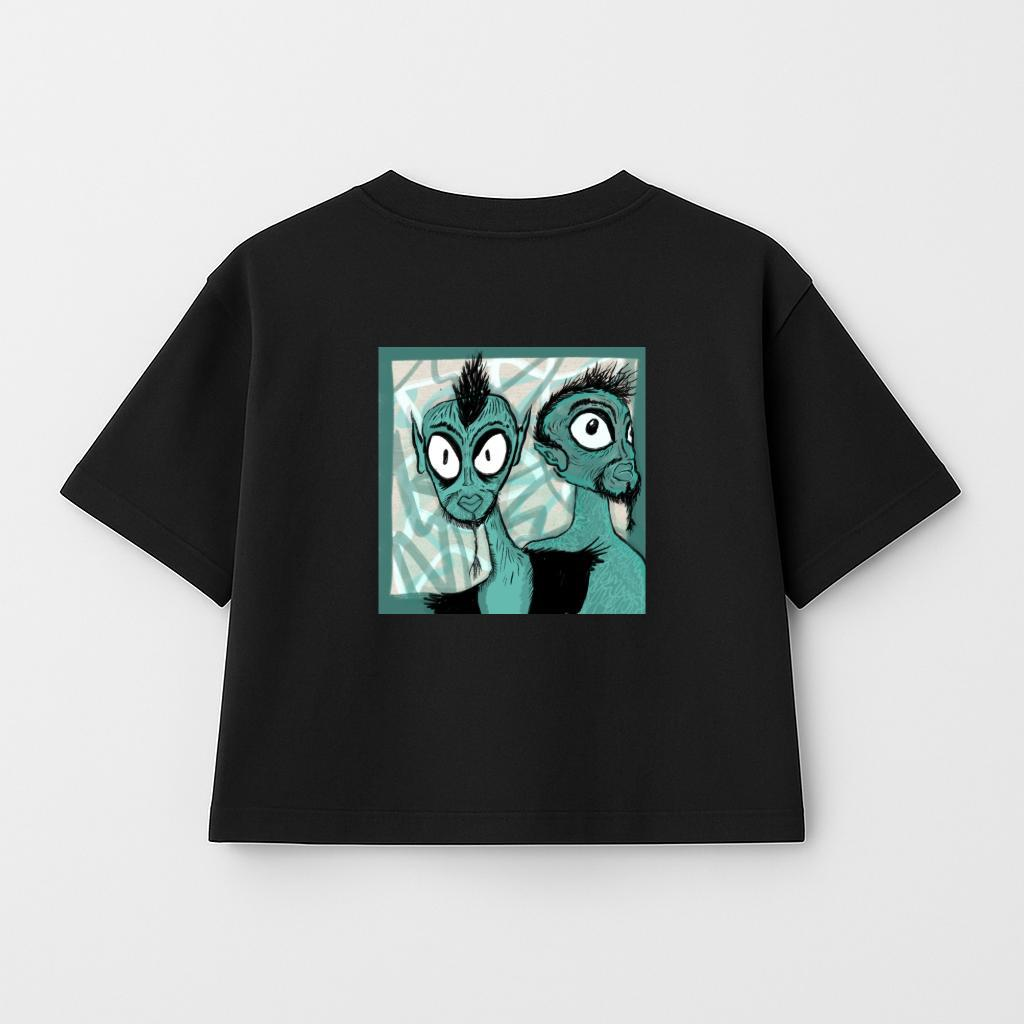
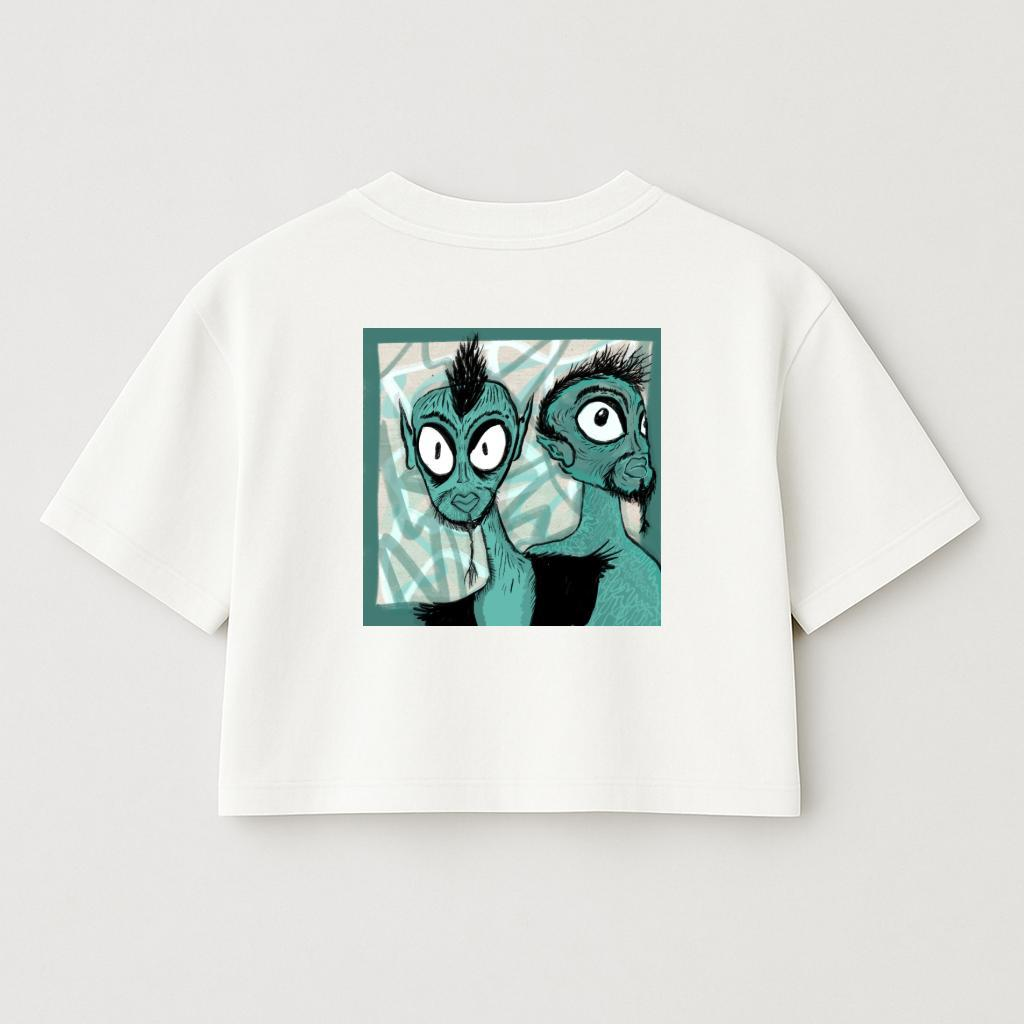
Client feedback: 5-of-15 selection clarity, Repaired for life as future offer, C05 white cropped render

diff --git a/index.html b/index.html
@@ -2147,7 +2147,7 @@ textarea:focus-visible,
 
     <div class="hero-body-row">
       <p class="body-l">
-        Fifteen artworks. <em>Two-fifty pieces.</em> Conor Powell, Peter Rapp and Michelle Fine open the catalogue. Designed and <em>made in London</em>, milled in Leicester.
+        Fifteen artworks. <em>Five will be made.</em> Two-fifty pieces by Conor Powell, Peter Rapp and Michelle Fine. Designed and <em>made in London</em>, milled in Leicester.
       </p>
       <p class="body-l">
         Not fast fashion. <em>Forward fashion</em> — independent, inclusive, made to last. The first programme opens July to August 2026. This page is the curatorial preview.
@@ -2164,7 +2164,7 @@ textarea:focus-visible,
 
     <div class="hero-spec">
       <div class="hero-spec-item"><span class="meta">Programme</span><span class="val">N°<em>01</em></span></div>
-      <div class="hero-spec-item"><span class="meta">Drop</span><span class="val">15 <em>works</em></span></div>
+      <div class="hero-spec-item"><span class="meta">Drop</span><span class="val">5 <em>of 15</em></span></div>
       <div class="hero-spec-item"><span class="meta">Edition</span><span class="val">250 pieces</span></div>
       <div class="hero-spec-item"><span class="meta">Located</span><span class="val"><em>Hackney</em> London</span></div>
       <div class="hero-spec-item"><span class="meta">Made in</span><span class="val">London</span></div>
@@ -2188,13 +2188,13 @@ textarea:focus-visible,
       <div class="section-divider-numhead">
         <span class="section-numeral">II.</span>
         <h2 class="h-section" style="max-width:14ch;">
-          Fifteen artworks.<br><em>Two-fifty pieces.</em>
+          Fifteen artworks.<br><em>Five get made.</em>
         </h2>
       </div>
     </div>
 
     <p class="body">
-      The first drop brings together <em>Conor Powell</em>, <em>Peter Rapp</em> and <em>Michelle Fine</em> — three artists, releasing as one range. Fifteen artworks compete for two-fifty pieces — what gets made follows what gets chosen, in editions of fifty, signed and numbered. Each piece is shown below as the finished shirt. <em>Mockups are indicative — final print quality will be exceptional.</em> Every garment ships in a hand-folded matte-black box.
+      The first drop brings together <em>Conor Powell</em>, <em>Peter Rapp</em> and <em>Michelle Fine</em> — three artists, releasing as one range. Fifteen artworks below — the five most chosen get made. Fifty pieces each, two-fifty in total, signed and numbered. Each piece is shown below as the finished shirt. <em>Mockups are indicative — final print quality will be exceptional.</em> Every garment ships in a hand-folded matte-black box.
     </p>
 
     <div class="action-prompt">
@@ -2586,7 +2586,7 @@ textarea:focus-visible,
         <div class="rank-badge"></div>
         <div class="promise-num">N°06</div>
         <div class="promise-title">Repaired for life</div>
-        <div class="promise-body">Bring it back. We repair it, re-stamp it, and record the repair on the line.</div>
+        <div class="promise-body">Bring it back. We repair it, re-stamp it, and record the repair on the line. <em>A future offer — not at launch.</em></div>
       </div>
       <div class="promise-item" data-promise="inclusive_design" onclick="rankPromise('inclusive_design', 'Inclusive by design')">
         <div class="rank-badge"></div>
@@ -3690,7 +3690,7 @@ textarea:focus-visible,
     <div class="signup-grid">
       <div>
         <p class="body" style="color: rgba(245,241,235,0.78);">
-          Three quick fields, then your email. The first drop is fifteen artworks by <em style="color: var(--clay-warm);">Conor Powell, Peter Rapp</em> and <em style="color: var(--clay-warm);">Michelle Fine</em> — two-fifty pieces between them, split by what gets chosen — and you'll see it forty-eight hours before public launch.
+          Three quick fields, then your email. The first drop is fifteen artworks by <em style="color: var(--clay-warm);">Conor Powell, Peter Rapp</em> and <em style="color: var(--clay-warm);">Michelle Fine</em> — five artworks will be chosen, two-fifty pieces in total — and you'll see it forty-eight hours before public launch.
         </p>
         <p class="body" style="color: rgba(245,241,235,0.55); margin-top: 32px;">
           Programme 01 opens July to August 2026. Hackney, London.